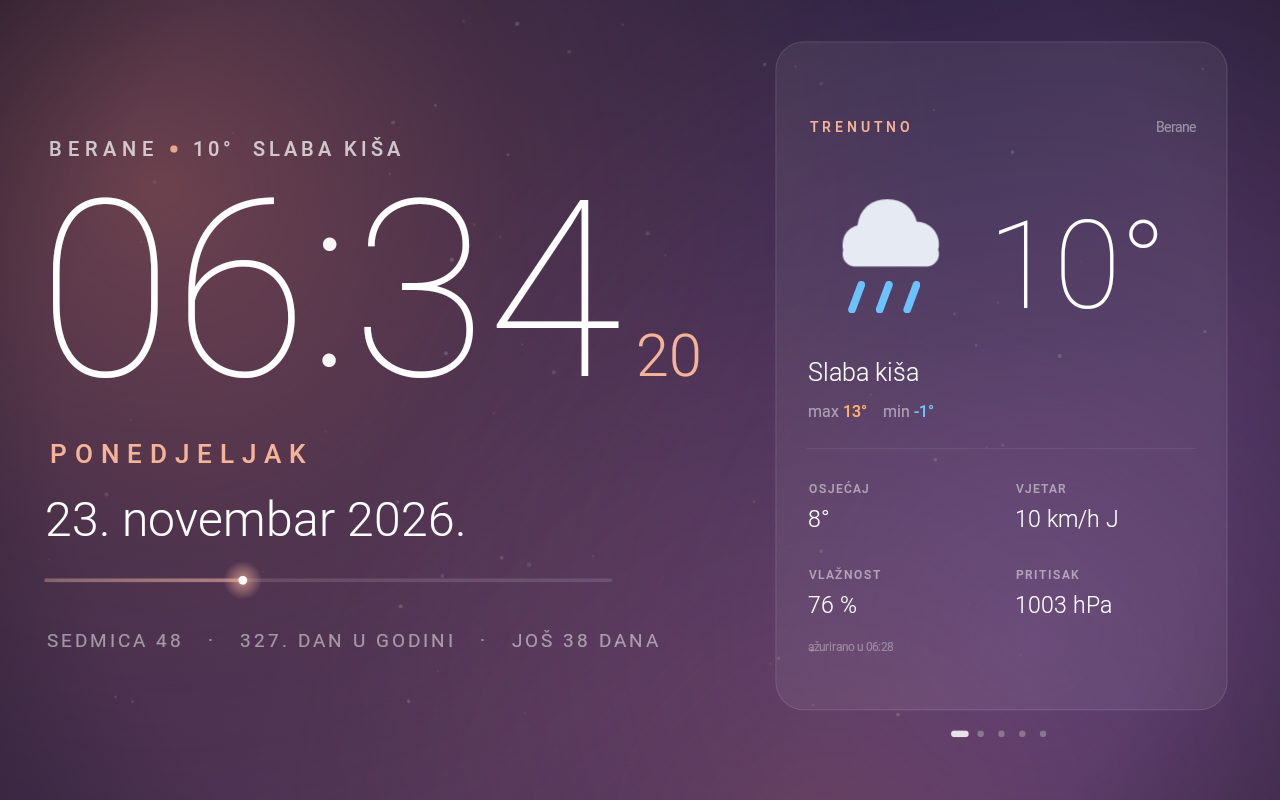
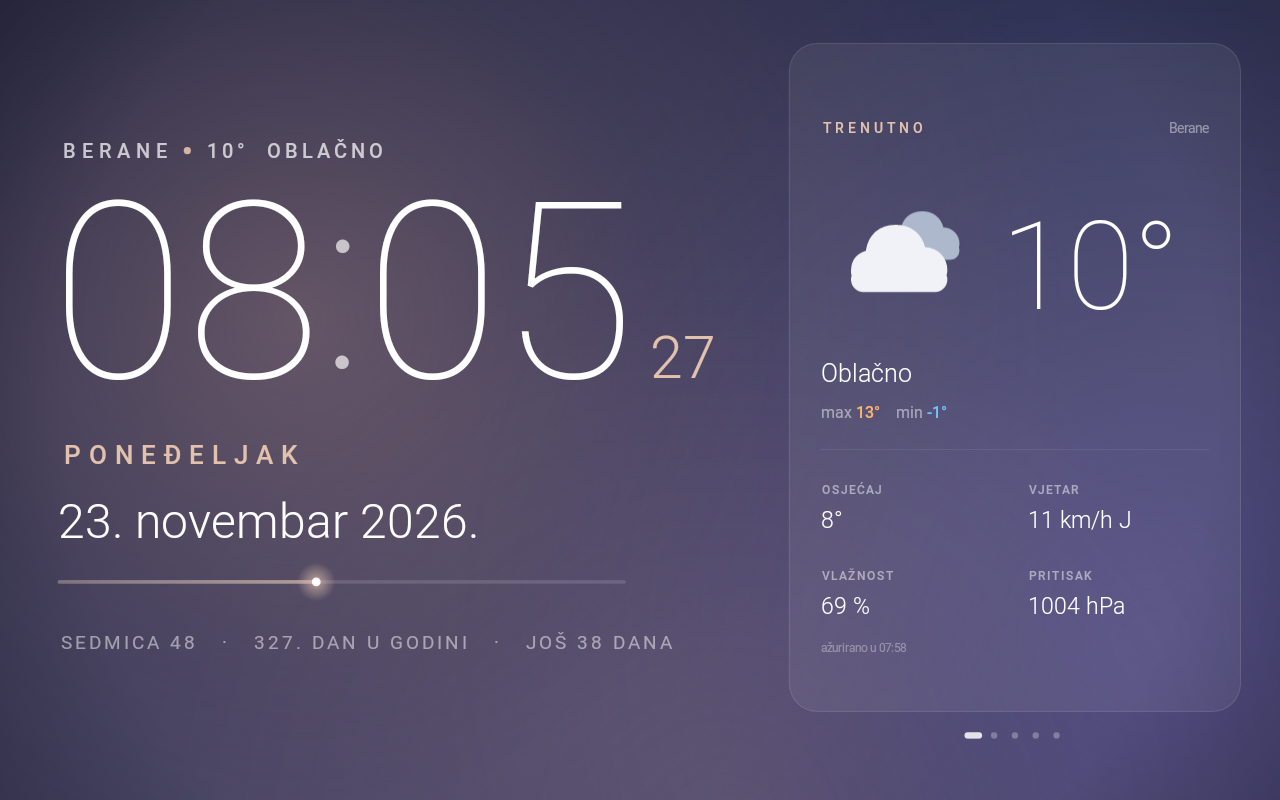
v1.0.1: nazivi dana na crnogorskom (poneđeljak, neđelja)

diff --git a/app/src/main/kotlin/com/jovan/vrijeme/Podaci.kt b/app/src/main/kotlin/com/jovan/vrijeme/Podaci.kt
@@ -104,7 +104,7 @@ class Vrijeme(val json: String, val preuzeto: Long) {
 }
 
 object Tekst {
-    val daniPuni = arrayOf("nedjelja", "ponedjeljak", "utorak", "srijeda", "četvrtak", "petak", "subota")
+    val daniPuni = arrayOf("neđelja", "poneđeljak", "utorak", "srijeda", "četvrtak", "petak", "subota")
     val mjeseci = arrayOf(
         "januar", "februar", "mart", "april", "maj", "jun",
         "jul", "avgust", "septembar", "oktobar", "novembar", "decembar"
@@ -196,7 +196,7 @@ object Praznici {
             c.add(Calendar.DAY_OF_MONTH, pomak)
             l.add(P(c.get(Calendar.MONTH), c.get(Calendar.DAY_OF_MONTH), ime))
         }
-        dodaj(-2, "Veliki petak"); dodaj(0, "Vaskrs"); dodaj(1, "Vaskršnji ponedjeljak")
+        dodaj(-2, "Veliki petak"); dodaj(0, "Vaskrs"); dodaj(1, "Vaskršnji poneđeljak")
         return l
     }
 
